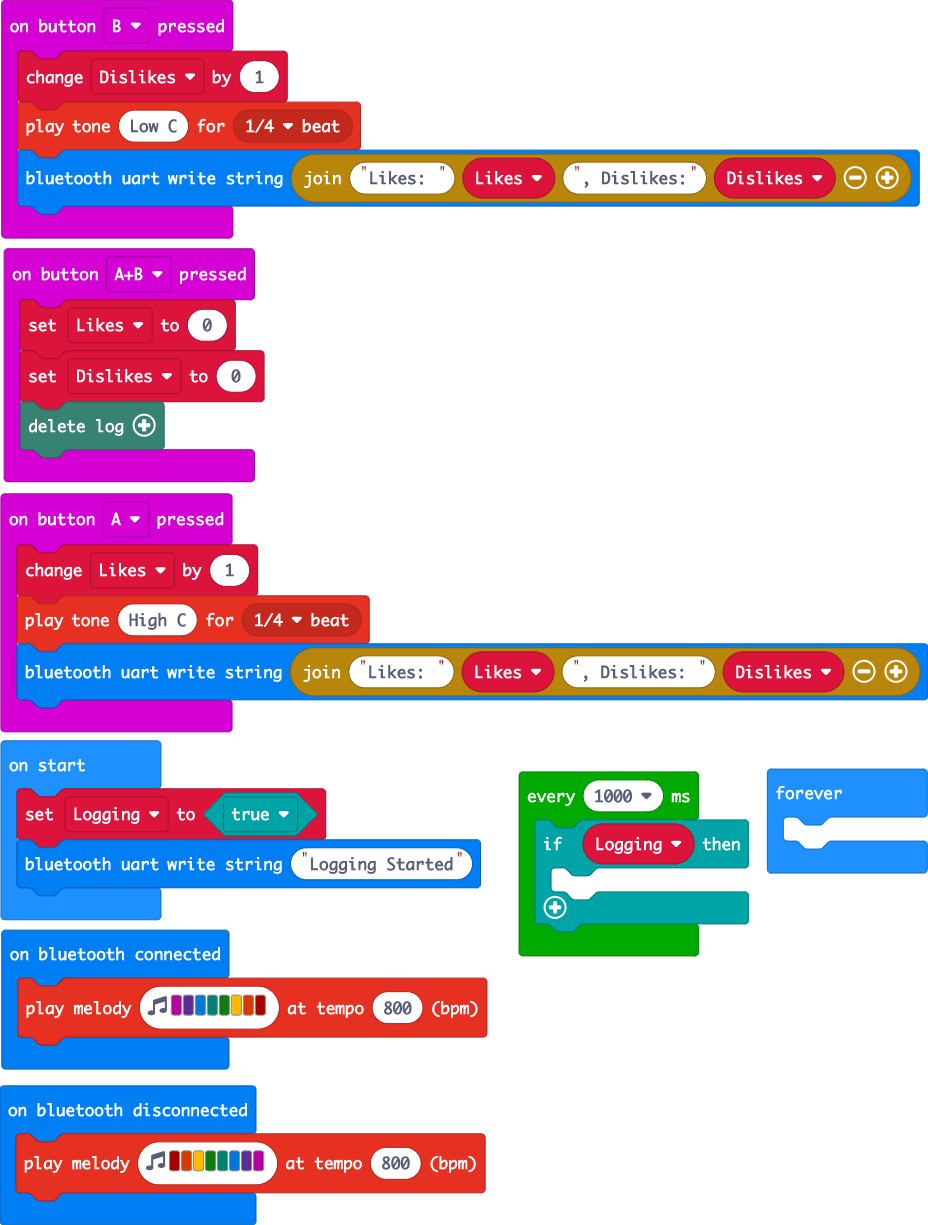
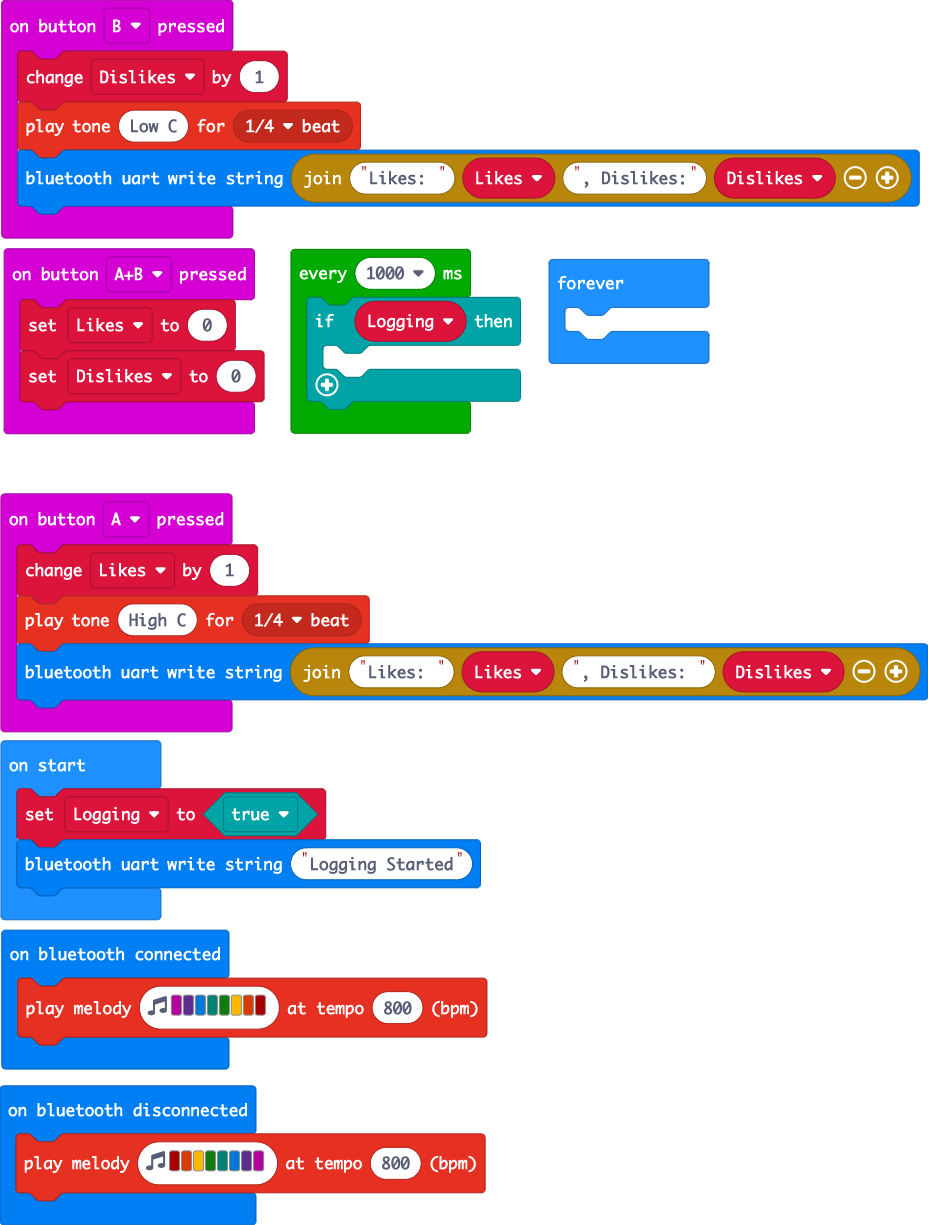
Update main.blocks, main.ts

Changed region(s): [[0.3125, 0.1861, 0.7812, 0.3722], [0.5312, 0.6204, 1.0, 0.8065], [0.0, 0.3102, 0.2812, 0.4033]]

diff --git a/main.ts b/main.ts
@@ -12,7 +12,6 @@ input.onButtonPressed(Button.A, function () {
 input.onButtonPressed(Button.AB, function () {
     Likes = 0
     Dislikes = 0
-    datalogger.deleteLog()
 })
 input.onButtonPressed(Button.B, function () {
     Dislikes += 1
